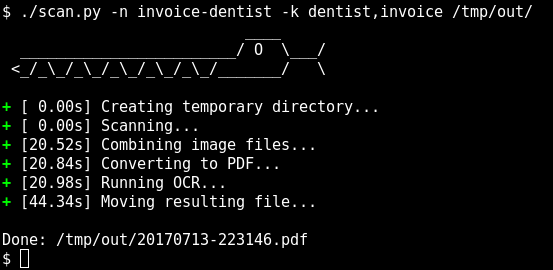
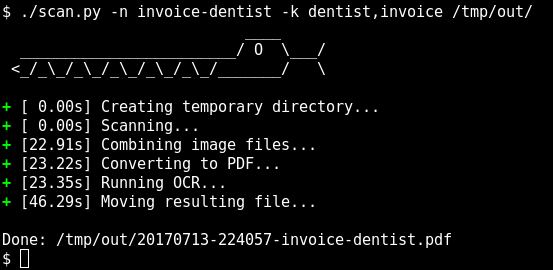
Fix -n parameter

Changed region(s): [[0.4304, 0.8593, 0.83, 0.9185], [0.0615, 0.6519, 0.1537, 0.7704], [0.0615, 0.5037, 0.1537, 0.6222]]

diff --git a/scan.py b/scan.py
@@ -274,6 +274,8 @@ if __name__ == '__main__':
         kwargs['output'] = args['OUTPUT']
     if args['--skip-ocr'] is True:
         skip_ocr = True
+    if args['-n']:
+        kwargs['name'] = args['-n']
     if args['-k']:
         keywords = [k.strip() for k in args.get('-k', '').split(',')]
         kwargs['keywords'].update(keywords)
